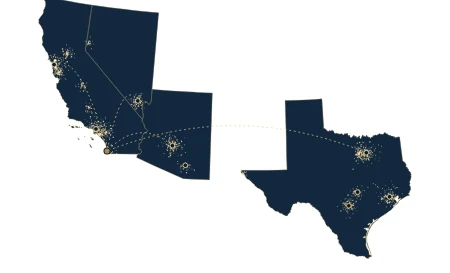
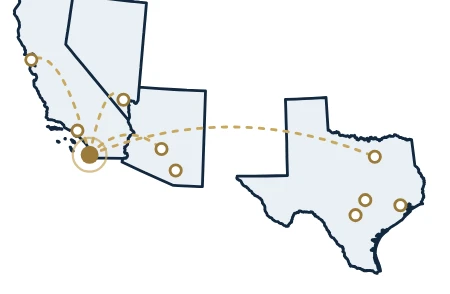
Home: line-art network map in strip
Claude-Session: https://claude.ai/code/session_01Sx1SfJQcfoGq76QKcZ5HQX

Changed region(s): [[0.0311, 0.0, 0.9644, 0.967]]

diff --git a/index.html b/index.html
@@ -64,7 +64,7 @@
   </section>
 
   <section class="proof-cards" aria-label="MIG at a glance"><div class="wrap"><div class="pcg" data-proof><div class="pc" style="--i:0"><div class="k">Trained</div><div class="v"><span class="cu" data-to="100">100</span>+</div><div class="s">Imaging students in the past year</div></div><div class="pc" style="--i:1"><div class="k">Trusted by</div><div class="v"><span class="cu" data-to="5">5</span>+</div><div class="s">Accredited imaging programs</div></div><div class="pc" style="--i:2"><div class="k">Modalities</div><div class="v"><span class="cu" data-to="3">3</span></div><div class="s">MRI, Ultrasound and X-ray</div></div><a class="pc" href="/locations/" style="--i:3"><div class="k">Based in</div><div class="v w">California</div><div class="s">Headquartered in San Diego</div><span class="go">See our locations →</span></a></div></div></section>
-  <section class="netstrip" aria-label="Where we work"><div class="wrap"><a class="ns" href="/locations/"><span class="ns-l"><img src="/img/net-mini.webp?v=a5cc9997" alt="" width="150" height="91" loading="lazy"><span class="ns-t">Clinical network across California, Nevada, Arizona and Texas.</span></span><span class="ns-go">See where we work <i>→</i></span></a></div></section>
+  <section class="netstrip" aria-label="Where we work"><div class="wrap"><a class="ns" href="/locations/"><span class="ns-l"><img src="/img/net-mini.webp?v=29936e97" alt="" width="150" height="91" loading="lazy"><span class="ns-t">Clinical network across California, Nevada, Arizona and Texas.</span></span><span class="ns-go">See where we work <i>→</i></span></a></div></section>
 
   <section class="band">
     <div class="wrap">
